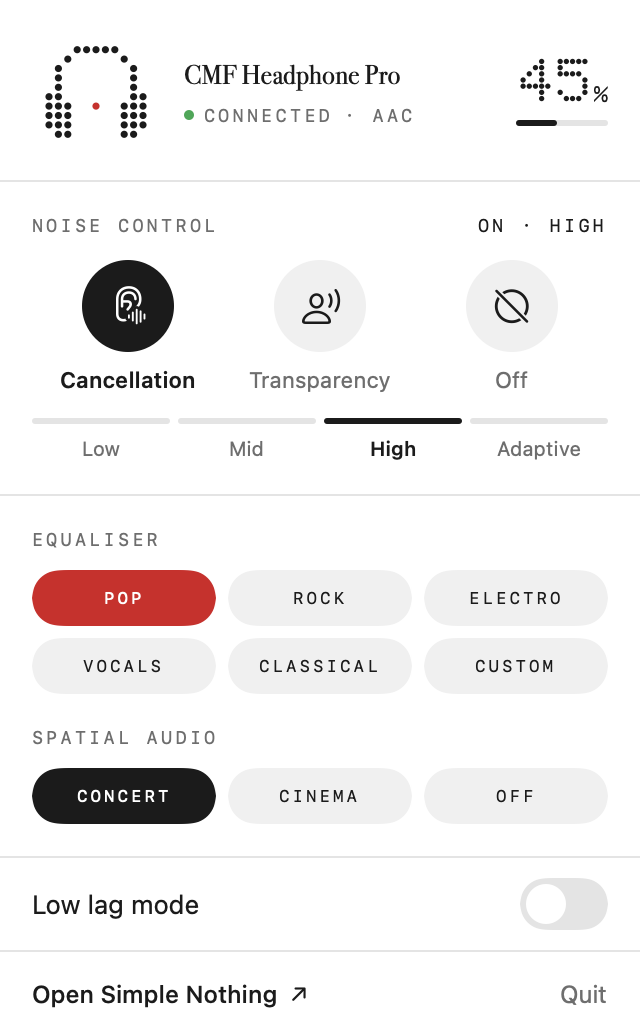
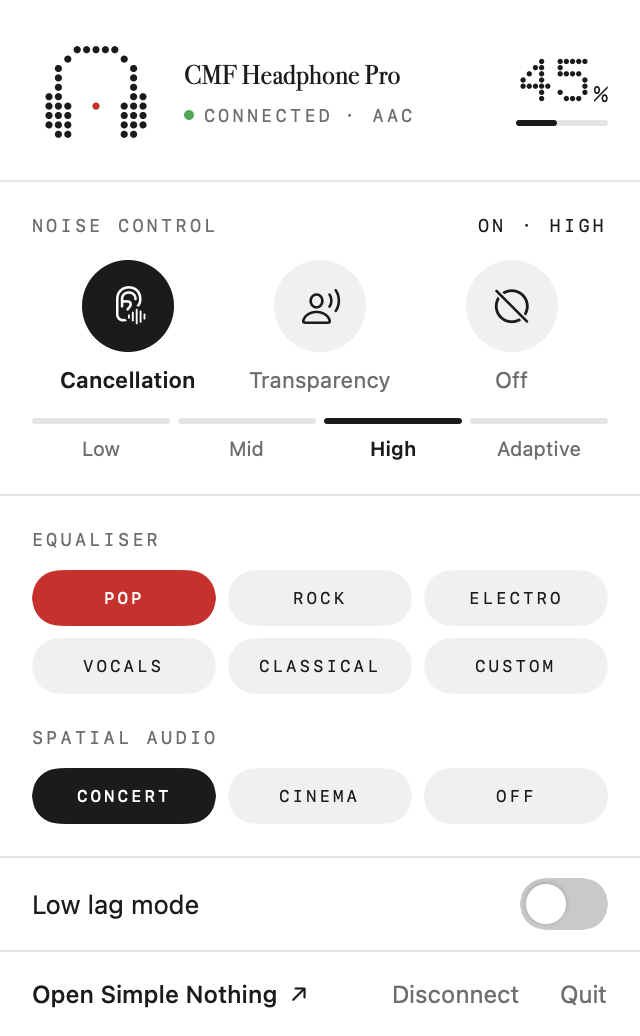
Revue d'interface : état sans appareil, hiérarchie des actions, lisibilité
- sans appareil, un écran dit quoi faire au lieu de réglages grisés aux valeurs inventées
- Connecter est l'action principale de cet écran ; Déconnecter rejoint l'onglet Appareil
- la barre d'onglets ne bouge plus quand on change d'onglet, le nom non plus d'un état à l'autre
- interrupteur éteint plus visible en apparence claire, annoncé comme interrupteur à VoiceOver
- ⌘, ouvre les réglages de l'app ; « Réduire les animations » est respecté
- gestes fixes de la molette en note sous la liste plutôt qu'en ligne sans réglage

Changed region(s): [[0.8125, 0.834, 0.9688, 0.8958], [0.625, 0.9575, 0.8125, 0.9884]]

diff --git a/Sources/SimpleNothing/Sections.swift b/Sources/SimpleNothing/Sections.swift
@@ -23,6 +23,7 @@ struct ListenSection: View {
     private var preset: Preset { headset.state.preset ?? .pop }
     private var spatial: SpatialMode { headset.state.spatial ?? .off }
     private var caps: Capabilities { headset.capabilities }
+    @Environment(\.accessibilityReduceMotion) private var reduceMotion
 
     /// Courbe en cours de glissement, avant d'être envoyée.
     @State private var draft: CustomEQ?
@@ -112,7 +113,7 @@ struct ListenSection: View {
                     draft = done ? nil : curve
                     if done { headset.setCustomEQ(curve) }
                 })
-                .animation(.easeInOut(duration: 0.35), value: preset).padding(.vertical, -4)
+                .animation(reduceMotion ? nil : .easeInOut(duration: 0.35), value: preset).padding(.vertical, -4)
                 VStack(alignment: .leading, spacing: 14) {
                     CardHead(title: "Égaliseur", subtitle: preset == .custom ? "Personnalisé · déplacez les trois points" : preset.label)
                     LazyVGrid(columns: [GridItem(.flexible(), spacing: 8), GridItem(.flexible())], spacing: 8) {
@@ -194,9 +195,9 @@ struct ControlsSection: View {
             SectionTitle("Molette de défilement")
             RowGroup {
                 Row(symbol: "hand.tap.fill", title: "Appuyez longuement", subtitle: "Alterne entre les modes de bruit") { menu(.rollerHold) }
-                Row(symbol: "dial.low", title: "Gestes fixes",
-                    subtitle: "1 appui : lecture/pause · 2 : suivant · 3 : précédent · défilement : volume") { EmptyView() }
             }
+            Text(tr("Les autres gestes de la molette ne se règlent pas : un appui pour lecture ou pause, deux pour le titre suivant, trois pour le précédent, et le défilement pour le volume."))
+                .font(.system(size: 11)).foregroundStyle(Color.nMuted).fixedSize(horizontal: false, vertical: true).padding(.horizontal, 4)
             Spacer(minLength: 0)
         }
     }
@@ -290,25 +291,26 @@ struct DeviceSection: View {
                 Row(title: "Adresse Bluetooth") { value(headset.address) }
                 Row(title: "Firmware") { value(headset.state.firmware ?? "–") }
             }
-            if !caps.ring.isEmpty || caps.wearDetection {
-                SectionTitle("Au quotidien")
-                RowGroup {
-                    if !caps.ring.isEmpty {
-                        Row(symbol: "bell.and.waves.left.and.right", title: "Faire sonner l'appareil",
-                            subtitle: "Son fort : retirez d'abord l'appareil de vos oreilles") {
-                            ForEach(caps.ring, id: \.self) { target in
-                                let isOn = headset.ringing == target
-                                PillButton(label: isOn ? "Arrêter" : target.label, isOn: isOn) {
-                                    if isOn { headset.ring(nil) } else { ringAsked = target }
-                                }
+            SectionTitle("Actions")
+            RowGroup {
+                if !caps.ring.isEmpty {
+                    Row(symbol: "bell.and.waves.left.and.right", title: "Faire sonner l'appareil",
+                        subtitle: "Son fort : retirez d'abord l'appareil de vos oreilles") {
+                        ForEach(caps.ring, id: \.self) { target in
+                            let isOn = headset.ringing == target
+                            PillButton(label: isOn ? "Arrêter" : target.label, isOn: isOn) {
+                                if isOn { headset.ring(nil) } else { ringAsked = target }
                             }
                         }
                     }
-                    if caps.wearDetection {
-                        ToggleRow(symbol: "pause.circle", title: "Détection de port", subtitle: "Met la lecture en pause quand vous retirez l'appareil",
-                                  isOn: headset.state.wearDetection ?? false, set: headset.setWearDetection)
-                            .padding(.horizontal, 16).frame(minHeight: 48)
-                    }
+                }
+                if caps.wearDetection {
+                    ToggleRow(symbol: "pause.circle", title: "Détection de port", subtitle: "Met la lecture en pause quand vous retirez l'appareil",
+                              isOn: headset.state.wearDetection ?? false, set: headset.setWearDetection)
+                        .padding(.horizontal, 16).frame(minHeight: 48)
+                }
+                Row(symbol: "personalhotspot.slash", title: "Connexion à ce Mac", subtitle: "L'appareil reste jumelé : il se reconnecte d'un clic") {
+                    PillButton(label: "Déconnecter", action: headset.disconnect)
                 }
             }
             if let model = headset.model, !model.verified {

diff --git a/Sources/SimpleNothing/ContentView.swift b/Sources/SimpleNothing/ContentView.swift
@@ -1,3 +1,4 @@
+import AppKit
 import SwiftUI
 
 struct ContentView: View {
@@ -13,17 +14,18 @@ struct ContentView: View {
             VStack(spacing: 10) {
                 tabs
                 Group {
+                    // Sans appareil, on n'affiche pas de réglages inventés : seulement quoi faire.
+                    // Ceux de l'app, eux, restent là.
                     switch section {
+                    case .app: AppSection()
+                    case _ where !connected: missing
                     case .listen: ListenSection(headset: headset)
                     case .controls: ControlsSection(headset: headset)
                     case .link: LinkSection(headset: headset)
                     case .device: DeviceSection(headset: headset)
-                    case .app: AppSection()
                     }
                 }
                 .frame(maxWidth: .infinity, maxHeight: .infinity, alignment: .top)
-                // Les réglages de l'app restent utilisables sans appareil relié.
-                .disabled(!connected && section != .app).opacity(connected || section == .app ? 1 : 0.4)
             }
         }
         // Le contenu monte sous la barre de titre masquée ; la fenêtre fait 920 × 620 en tout.
@@ -32,12 +34,39 @@ struct ContentView: View {
         .id(language.code)  // changer de langue redessine tout
     }
 
+    private var missing: some View {
+        Card {
+            VStack(spacing: 0) {
+                Image(systemName: headset.status == .unauthorized ? "lock" : "headphones").font(.system(size: 24)).foregroundStyle(Color.nMuted)
+                    .frame(width: 68, height: 68).background(Color.nWell, in: Circle())
+                Text(tr(headset.status == .unauthorized ? "Bluetooth non autorisé" : headset.status == .connecting ? "Connexion en cours…" : "Aucun appareil connecté"))
+                    .font(.system(size: 17, weight: .semibold)).foregroundStyle(Color.nText).padding(.top, 18)
+                if headset.status != .connecting {
+                    Text(tr(headset.hint)).font(.system(size: 12)).foregroundStyle(Color.nMuted).multilineTextAlignment(.center)
+                        .fixedSize(horizontal: false, vertical: true).frame(maxWidth: 340).padding(.top, 6)
+                    HStack(spacing: 8) {
+                        if headset.canConnect { PillButton(label: "Connecter", prominent: true, action: headset.connect) }
+                        PillButton(label: headset.status == .unauthorized ? "Ouvrir les réglages" : "Réglages Bluetooth", prominent: !headset.canConnect) {
+                            NSWorkspace.shared.open(headset.settingsURL)
+                        }
+                    }
+                    .padding(.top, 18)
+                }
+            }
+            .frame(maxWidth: .infinity, maxHeight: .infinity).padding(.bottom, 30)
+        }
+    }
+
     private var tabs: some View {
         HStack(spacing: 2) {
             ForEach(Pane.allCases, id: \.self) { item in
                 Button { section = item } label: {
-                    Text(tr(item.label)).font(.system(size: 12, weight: section == item ? .semibold : .regular))
-                        .foregroundStyle(section == item ? Color.nOnText : Color.nText)
+                    // Le libellé gras, invisible, réserve la largeur : la barre ne bouge pas quand on change d'onglet.
+                    Text(tr(item.label)).font(.system(size: 12, weight: .semibold)).hidden()
+                        .overlay {
+                            Text(tr(item.label)).font(.system(size: 12, weight: section == item ? .semibold : .regular))
+                                .foregroundStyle(section == item ? Color.nOnText : Color.nText).fixedSize()
+                        }
                         .padding(.horizontal, 14).frame(height: 28)
                         .background(section == item ? Color.nText : .clear, in: Capsule()).contentShape(Capsule())
                 }

diff --git a/Sources/SimpleNothing/Theme.swift b/Sources/SimpleNothing/Theme.swift
@@ -16,6 +16,8 @@ extension Color {
     static let nText = adaptive(0x1B1B1B, 0xFFFFFF)
     static let nMuted = adaptive(0x6E6E6E, 0x9C9C9C)
     static let nTrack = adaptive(0xE4E4E4, 0x343434)
+    /// Interrupteur éteint : plus marqué que les filets, pour rester visible sur une carte claire.
+    static let nSwitchOff = adaptive(0xC9C9C9, 0x4A4A4A)
     static let nOnText = adaptive(0xFFFFFF, 0x000000)
     static let nBlob = adaptive(0xF6F6F6, 0x333333)
     static let nRed = adaptive(0xD71921, 0xD71921)
@@ -145,15 +147,16 @@ struct NothingToggle: ToggleStyle {
         Button { configuration.isOn.toggle() } label: {
             HStack(spacing: 12) {
                 configuration.label
-                Capsule().fill(configuration.isOn ? Color.nText : Color.nTrack).frame(width: 44, height: 26)
+                Capsule().fill(configuration.isOn ? Color.nText : Color.nSwitchOff).frame(width: 44, height: 26)
                     .overlay(alignment: configuration.isOn ? .trailing : .leading) {
                         Circle().fill(configuration.isOn ? Color.nOnText : .white).frame(width: 20, height: 20).padding(3)
+                            .shadow(color: .black.opacity(0.18), radius: 1.5, y: 0.5)
                     }
                     .animation(.easeOut(duration: 0.18), value: configuration.isOn)
             }
             .contentShape(Rectangle())
         }
-        .buttonStyle(.plain).accessibilityAddTraits(configuration.isOn ? .isSelected : [])
+        .buttonStyle(.plain).accessibilityAddTraits(.isToggle).accessibilityValue(tr(configuration.isOn ? "Activé" : "Désactivé"))
     }
 }
 
@@ -202,12 +205,14 @@ struct Row<Trailing: View>: View {
 struct PillButton: View {
     let label: String
     var isOn = false
+    /// L'action principale de l'écran : pastille pleine.
+    var prominent = false
     let action: () -> Void
 
     var body: some View {
         Button(action: action) {
-            Caps(label, size: 9, color: isOn ? .white : .nText).padding(.horizontal, 12).frame(height: 26)
-                .background(isOn ? Color.nRed : Color.nWell, in: Capsule()).contentShape(Capsule())
+            Caps(label, size: 9, color: isOn ? .white : prominent ? .nOnText : .nText).padding(.horizontal, prominent ? 16 : 12).frame(height: prominent ? 30 : 26)
+                .background(isOn ? Color.nRed : prominent ? Color.nText : Color.nWell, in: Capsule()).contentShape(Capsule())
         }
         .buttonStyle(.plain)
     }

diff --git a/Sources/SimpleNothing/DevicePanel.swift b/Sources/SimpleNothing/DevicePanel.swift
@@ -14,14 +14,9 @@ struct DevicePanel: View {
             Spacer(minLength: 16)
             Text(headset.name.isEmpty ? tr("Aucun appareil") : headset.name).font(.nSerif(23)).foregroundStyle(Color.nText)
                 .lineLimit(1).minimumScaleFactor(0.7).padding(.horizontal, 14)
-            battery.padding(.top, 12).frame(height: 52, alignment: .top)
+            // Hauteur réservée même sans batterie à montrer : le nom ne bouge pas d'un état à l'autre.
+            ZStack(alignment: .top) { battery }.padding(.top, 12).frame(height: 52, alignment: .top)
             Spacer(minLength: 10)
-            // Relier ou détacher l'appareil sans passer par le menu Bluetooth de macOS.
-            if connected {
-                PillButton(label: "Déconnecter", action: headset.disconnect).padding(.bottom, 14)
-            } else if headset.canConnect {
-                PillButton(label: "Connecter", action: headset.connect).padding(.bottom, 14)
-            }
             footer
         }
         .padding(.bottom, 14).frame(width: 250).frame(maxHeight: .infinity)
@@ -44,9 +39,6 @@ struct DevicePanel: View {
                 Text(tr("%d %%", level.percent) + (level.charging ? " · " + tr("en charge") : "")).font(.nMono(11)).foregroundStyle(Color.nText)
             }
             .accessibilityElement(children: .ignore).accessibilityLabel(tr("Batterie %d %%", level.percent))
-        } else if !connected {
-            Text(tr(headset.hint)).font(.system(size: 11)).foregroundStyle(Color.nMuted).multilineTextAlignment(.center)
-                .fixedSize(horizontal: false, vertical: true).padding(.horizontal, 22)
         }
     }
 
@@ -55,7 +47,7 @@ struct DevicePanel: View {
             Circle().fill(connected ? Color.nGreen : Color.nMuted).frame(width: 5, height: 5)
             Caps(headset.statusLabel)
             Spacer()
-            if connected { Caps([headset.state.codec?.name, headset.state.firmware].compactMap { $0 }.joined(separator: " · ")) }
+            if connected, let codec = headset.state.codec { Caps(codec.name) }
         }
         .padding(.horizontal, 16)
     }

diff --git a/Sources/SimpleNothing/HUD.swift b/Sources/SimpleNothing/HUD.swift
@@ -23,7 +23,8 @@ final class HUD {
         let frame = CGRect(x: screen.visibleFrame.maxX - size.width + Self.margin - 14, y: screen.visibleFrame.maxY - size.height + Self.margin - 10,
                            width: size.width, height: size.height)
         if !panel.isVisible {
-            panel.setFrame(frame.offsetBy(dx: 0, dy: 18), display: false)
+            // Avec « Réduire les animations », la carte apparaît en fondu, sans glisser.
+            panel.setFrame(frame.offsetBy(dx: 0, dy: NSWorkspace.shared.accessibilityDisplayShouldReduceMotion ? 0 : 18), display: false)
             panel.alphaValue = 0
             panel.orderFrontRegardless()
         }

diff --git a/Sources/SimpleNothing/SimpleNothingApp.swift b/Sources/SimpleNothing/SimpleNothingApp.swift
@@ -200,6 +200,9 @@ struct SimpleNothingApp: App {
         .windowStyle(.hiddenTitleBar).windowResizability(.contentSize)
         .commands {
             CommandGroup(replacing: .newItem) {}
+            CommandGroup(replacing: .appSettings) {
+                Button(tr("Réglages…")) { section = .app; AppDelegate.showMainWindow() }.keyboardShortcut(",")
+            }
             CommandMenu(tr("Présentation")) {
                 ForEach(Array(Pane.allCases.enumerated()), id: \.element) { index, item in
                     Button(tr(item.label)) { section = item }.keyboardShortcut(KeyEquivalent(Character("\(index + 1)")))

diff --git a/Sources/SimpleNothing/Headset.swift b/Sources/SimpleNothing/Headset.swift
@@ -27,7 +27,7 @@ final class Headset: NSObject, ObservableObject {
         case .connecting: "Connexion en cours…"
         default:
             connectFailed ? "Appareil introuvable : vérifiez qu'il est allumé et à portée."
-                : canConnect ? "Appareil déconnecté. Allumez-le, puis cliquez sur Connecter."
+                : canConnect ? "Allumez votre appareil, puis cliquez sur Connecter."
                 : "Allumez votre appareil et reliez-le au Mac dans Réglages › Bluetooth."
         }
     }
